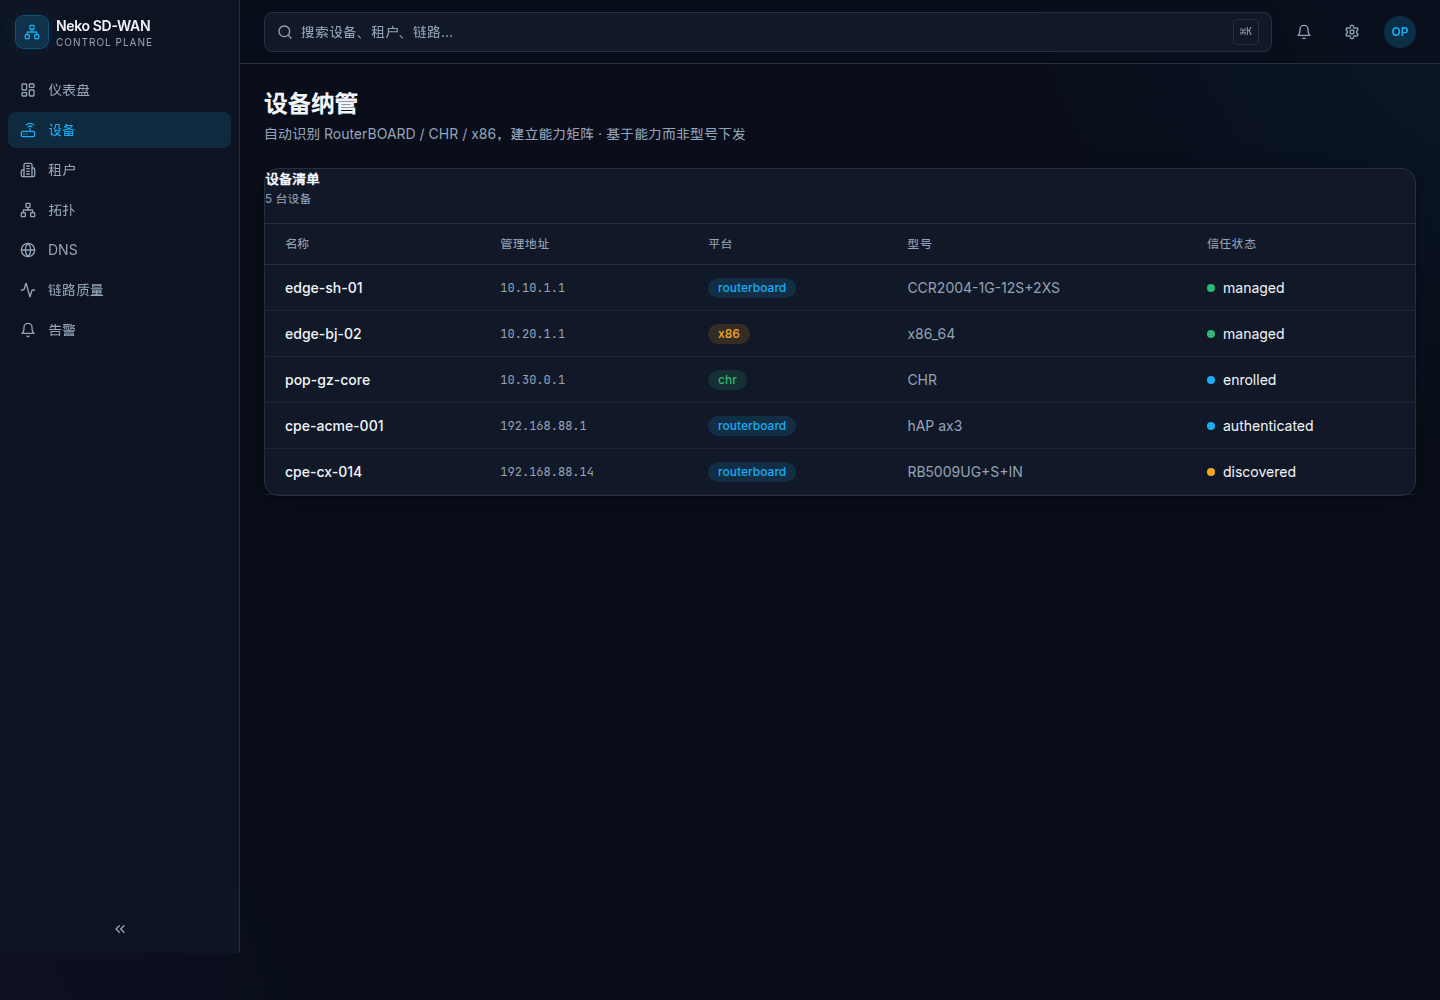
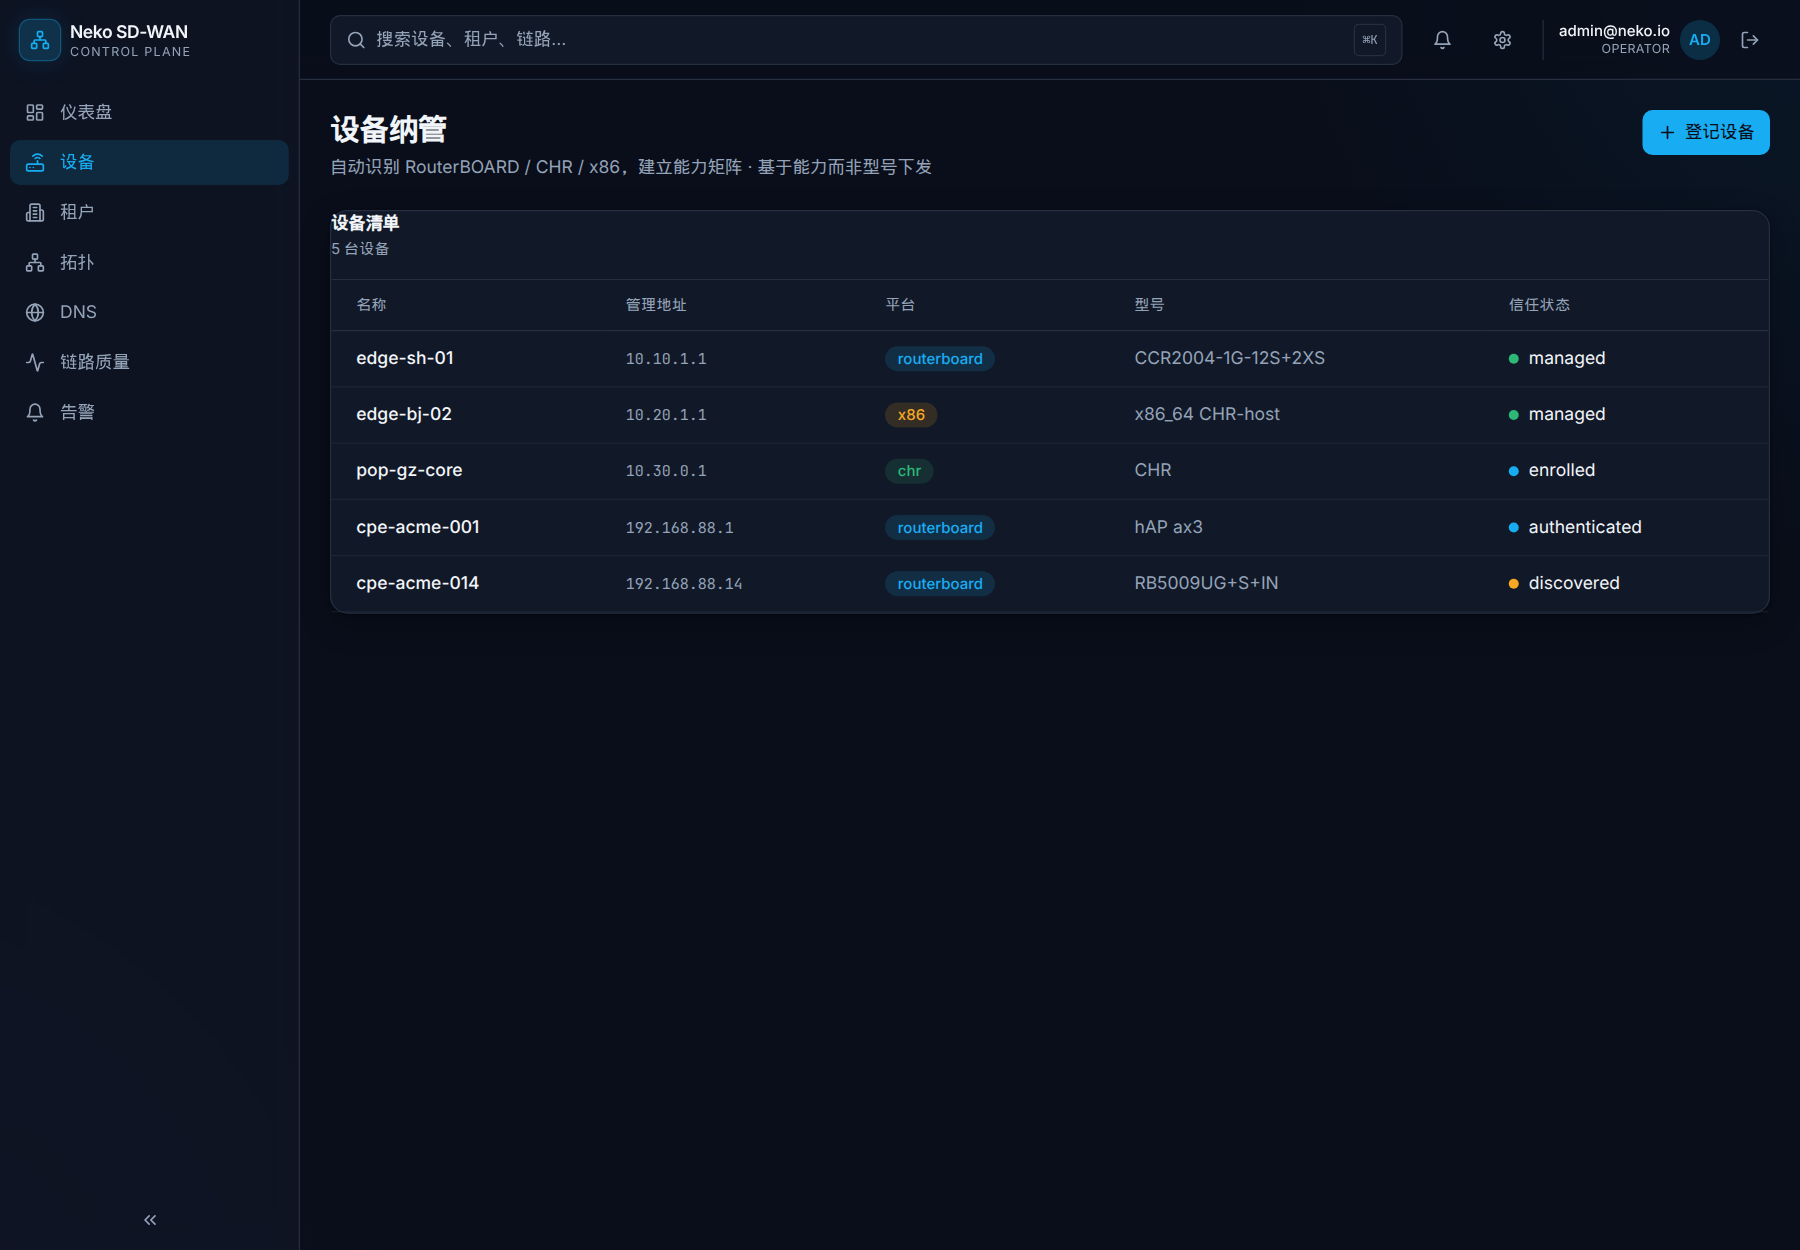
docs: add login screenshot and update demo guide with credentials

diff --git a/README.md b/README.md
@@ -20,19 +20,19 @@ Go 1.22+（后端/Worker） · Next.js 14 + TypeScript（Web） · PostgreSQL 16
 
 ## 界面预览
 
-> 以下为 `make demo`（内存仓储 + 演示数据）实际运行截图。
+> 以下为 `make demo`（内存仓储 + 演示数据）实际运行截图。需先登录。
 
-| 仪表盘 | 设备纳管 |
+| 登录 | 仪表盘 |
 | --- | --- |
-| ![dashboard](docs/screenshots/dashboard.png) | ![devices](docs/screenshots/devices.png) |
+| ![login](docs/screenshots/login.png) | ![dashboard](docs/screenshots/dashboard.png) |
+
+| 设备纳管 | 租户管理 |
+| --- | --- |
+| ![devices](docs/screenshots/devices.png) | ![tenants](docs/screenshots/tenants.png) |
 
 | 链路质量 | DNS 管理 |
 | --- | --- |
 | ![links](docs/screenshots/links.png) | ![dns](docs/screenshots/dns.png) |
-
-| 告警中心 | 租户管理 |
-| --- | --- |
-| ![alerts](docs/screenshots/alerts.png) | ![tenants](docs/screenshots/tenants.png) |
 
 ## 一键本地 Demo 🚀
 
@@ -42,12 +42,16 @@ Go 1.22+（后端/Worker） · Next.js 14 + TypeScript（Web） · PostgreSQL 16
 make demo
 ```
 
-启动后访问：
+启动后访问 http://localhost:3000 ，使用演示账号登录：
 
-- 控制台：http://localhost:3000
-- API：http://localhost:8080/api/v1 （健康检查 `/healthz`）
+| 角色 | 账号 | 密码 |
+| --- | --- | --- |
+| 平台运营（可见全部租户） | `[email redacted]` | `neko12345` |
+| 租户（仅 Acme Corp） | `[email redacted]` | `acme12345` |
 
-演示数据包含 3 个租户、5 台设备（含能力矩阵）、5 条链路（含评分）、3 条告警、6 个 DNS 服务器。按 `Ctrl+C` 停止。
+- API：http://localhost:8080/api/v1 （健康检查 `/healthz`，需 Bearer Token）
+- 登录后可：浏览仪表盘/设备/链路/DNS/告警/租户，**新建租户**、**登记设备**，右上角退出登录。
+- 演示数据包含 3 个租户、5 台设备（含能力矩阵）、5 条链路（含评分）、3 条告警、6 个 DNS 服务器。按 `Ctrl+C` 停止。
 
 > 前置：本机已安装 Go 1.22+ 与 Node 20+。首次运行会自动 `npm install`（稍慢）。
 